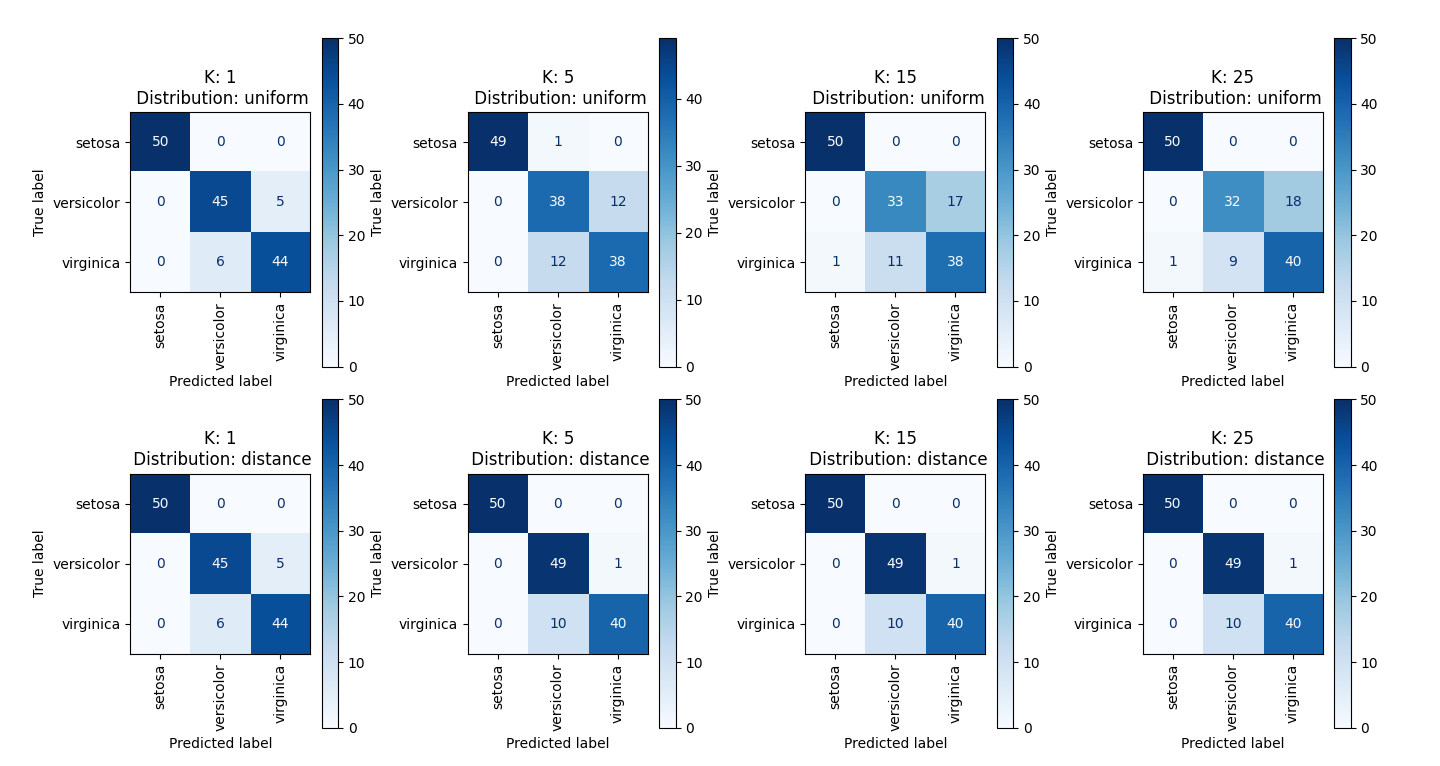
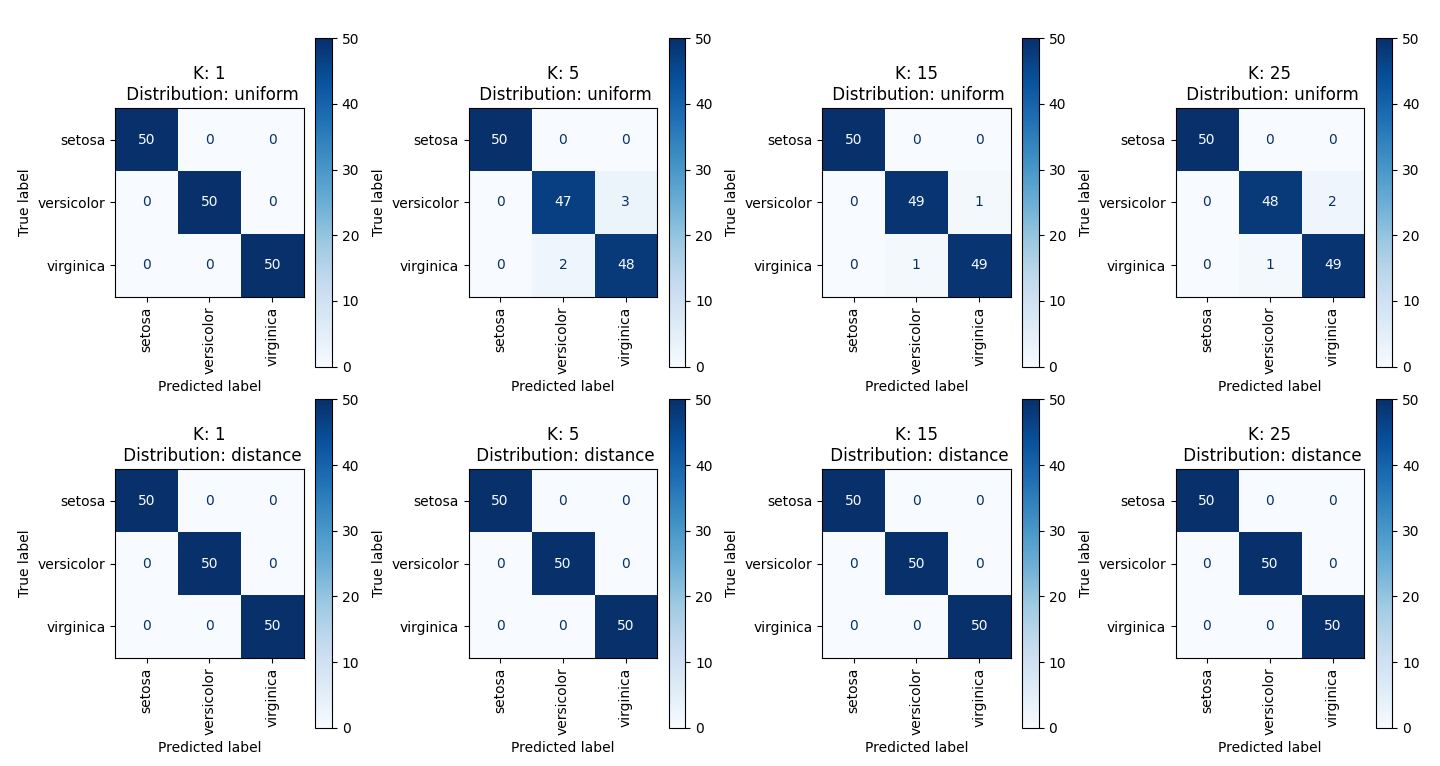
fix error when we only looked at 2 datapoints in the set instead of 4, also cleaned files from imports as well as adding comments

diff --git a/assignment2/src/k_nearest.py b/assignment2/src/k_nearest.py
@@ -1,3 +1,9 @@
+# Author: {Tobias Lindroth & Robert Zetterlund}
+
+import numpy as np
+import matplotlib.pyplot as plt
+from sklearn import neighbors, datasets
+from sklearn.metrics import plot_confusion_matrix
 
 # task 3
 # Use k-nearest neighbours to classify the iris data set with some different values for k,
@@ -10,22 +16,13 @@
 # regression. Calculate confusion matrices for these models and discuss the
 # performance of the various models.
 
-
-import numpy as np
-import matplotlib.pyplot as plt
-from matplotlib.colors import ListedColormap
-from sklearn import neighbors, datasets
-from sklearn.metrics import plot_confusion_matrix
-
-# import some data to play with
+# import iris dataset and extract relevant data
 iris = datasets.load_iris()
-
-X = iris["data"][:, :2]
+X = iris["data"]
 y = iris["target"]
 target_names = iris["target_names"]
 
-h = .02  # step size in the mesh
-
+# Determine which settings to use in plot.
 n_neighbors_array = np.array([1, 5, 15, 25])
 distributions = ['uniform', 'distance']
 
@@ -41,15 +38,17 @@ row = 0
 for n_neighbors in n_neighbors_array:
     for weights in distributions:
 
-        # we create an instance of Neighbours Classifier and fit the data.
+        # create an instance of Neighbours Classifier and fit the data.
         clf = neighbors.KNeighborsClassifier(n_neighbors, weights=weights)
         clf.fit(X, y)
 
         # create confusion matrix
         plot_confusion_matrix(
             clf, X, y, display_labels=target_names, ax=ax[row, col],  cmap=plt.get_cmap("Blues"), xticks_rotation=90)
+
         titleString = "K: " + str(n_neighbors) + \
             "\n Distribution: " + str(weights)
+
         ax[row, col].set_title(titleString)
 
         row = row + 1
@@ -57,8 +56,8 @@ for n_neighbors in n_neighbors_array:
     col = col + 1
     row = 0
 
-# looks nicer
-plt.subplots_adjust(left=0.05, bottom=0.05, right=0.95,
+# looks nicer (essentially changing zoom)
+plt.subplots_adjust(left=0.08, bottom=0.05, right=0.98,
                     top=0.95, hspace=0.1, wspace=0.5)
 
 plt.show()

diff --git a/assignment2/src/residuals.py b/assignment2/src/residuals.py
@@ -1,36 +1,43 @@
-from scipy import stats
-import numpy as np
+## Author: {Tobias Lindroth & Robert Zetterlund}
+
 import pandas as pd
 import matplotlib.pyplot as plt
 from sklearn.linear_model import LinearRegression
 
 df = pd.read_csv("../res/data.csv")
 
-
 x_header = "area"
 y_header = "price"
 
 # C
+
 # Draw a residual plot
-x = df[x_header].values.reshape(-1, 1)
-y = df[y_header].values.reshape(-1, 1)
+
+# select regression model
 reg = LinearRegression()
 
+# extract x and y and create regression fit
+x = df[x_header].values.reshape(-1, 1)
+y = df[y_header].values.reshape(-1, 1)
 reg.fit(x, y)
+
+# use regression fit to get predicted y values. 
 y_predicted = reg.predict(x)
+# calculate residuals
 residuals = y-y_predicted
 
 # The r2 score of the correlation
 print('score: ', reg.score(x, y))
 
-
+# setup plot
 fig, ax = plt.subplots()
-
-plt.plot(x, residuals, 'o', alpha=0.9)
 plt.ylim(-2000000, 2000000)
 plt.xlabel(x_header)
 plt.ylabel("Residuals")
 
+# scatterplot residuals
+plt.plot(x, residuals, 'o', alpha=0.9)
+# create horizontal line to show the prediction of the linear regression 
 plt.axhline(y=0, ls="--", alpha=0.7, color="black")
 
 plt.show()

diff --git a/assignment2/src/regression-line.py b/assignment2/src/regression-line.py
@@ -1,4 +1,5 @@
-from scipy import stats
+## Author: {Tobias Lindroth & Robert Zetterlund}
+
 import numpy as np
 import pandas as pd
 import matplotlib.pyplot as plt
@@ -30,20 +31,20 @@ print("predicted value of house with 100m2 =", 100 * slope + intercept)
 print("predicted value of house with 150m2 =", 150 * slope + intercept)
 print("predicted value of house with 200m2 =", 200 * slope + intercept)
 
-## Plot regression line
+## Setup plot
 fig, ax = plt.subplots()
-plt.scatter(x, y)
-
-x_predicted = np.linspace(0, np.amax(x)+50)
-
-def f(x): return reg.predict(x)
-
-plt.plot(x_predicted, f(x_predicted.reshape(-1, 1)), c="red")
-
 plt.xlabel(x_header)
 plt.ylabel(y_header)
 plt.ylim(np.amin(y)-100000, np.amax(y)+100000)
 plt.xlim(np.amin(x)-10, np.amax(x)+10)
+
+# draw regression line
+x_predicted = np.linspace(0, np.amax(x)+50).reshape(-1,1)
+def f(x): return reg.predict(x)
+plt.plot(x_predicted, f(x_predicted), c="red")
+
+# create scatterplot
+plt.scatter(x, y)
 
 plt.show()
 

diff --git a/assignment2/src/confusion-matrix.py b/assignment2/src/confusion-matrix.py
@@ -1,9 +1,7 @@
-from scipy import stats
-import numpy as np
+## Author: {Tobias Lindroth & Robert Zetterlund}
+
 import matplotlib.pyplot as plt
-from sklearn.datasets import load_iris
 from sklearn.multiclass import OneVsRestClassifier
-from sklearn.svm import SVC
 from sklearn.linear_model import LogisticRegression
 from sklearn.metrics import plot_confusion_matrix
 from sklearn.datasets import load_iris
@@ -16,12 +14,10 @@ y = bunch["target"]
 # get classnames (setosa,versicolor,virginica)
 class_names = bunch["target_names"]
 
-# Use use onevsrestclassifier with a logistic regression.......
 # Train one logistic classifier for each class
 clf1 = OneVsRestClassifier(LogisticRegression()).fit(X, y)
 
 # create confusion matrix
 plot_confusion_matrix(clf1, X,y, display_labels=class_names, cmap=plt.get_cmap("Blues"))
 
-# show!!!!
 plt.show()
